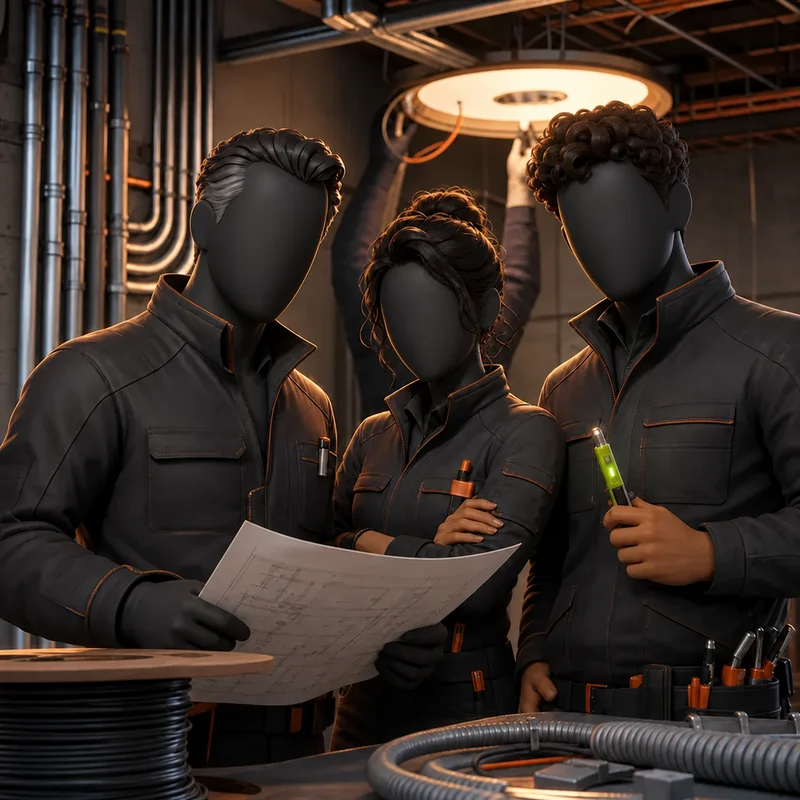
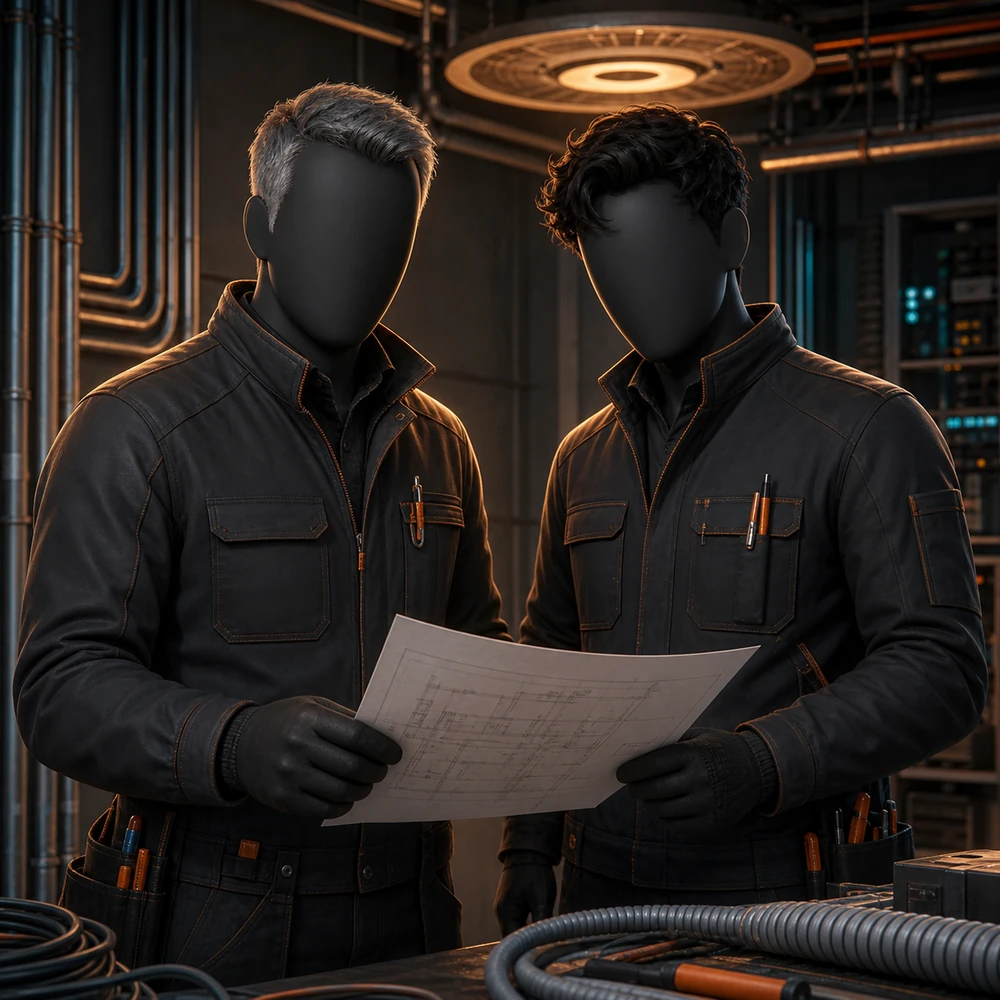
Replace installation team portrait with two male electricians

diff --git a/src/styles.css b/src/styles.css
@@ -453,3 +453,9 @@ html[data-experience='tech'] .electrical-shell{
   .power-system-readout p{font-size:13px}
   .led-lab-controls button strong{font-size:18px}
 }
+
+@media(max-width:720px){
+  .electrical-main .person-card.person-card--group{display:block}
+  .electrical-main .person-card.person-card--group>div.person-portrait{aspect-ratio:1.2;height:auto;min-height:0}
+  .electrical-main .person-card.person-card--group .person-portrait>span{display:flex}
+}

diff --git a/src/pages/PublicPages.tsx b/src/pages/PublicPages.tsx
@@ -65,7 +65,7 @@ export function AboutPage() {
     <section className="org-section section">
       <div className="org-heading"><span className="eyebrow">The complete team</span><h2>Different expertise.<br/><em>One electrical standard.</em></h2><p>The team is ordered by responsibility. The electrical installations team is the company’s backbone, and every card shows how each person contributes to the work.</p></div>
       <div className="team-all-grid">
-        {team.map((person, index) => <article className="person-card" key={person.name}>
+        {team.map((person, index) => <article className={`person-card${person.name === 'Installation team' ? ' person-card--group' : ''}`} key={person.name}>
           <div className="person-portrait"><img src={person.image} alt={`Illustrated role portrait for ${person.name}, ${person.role}`}/><span><b>{String(index + 1).padStart(2, '0')}</b>{person.responsibility}</span></div>
           <div className="person-content"><small>{person.branch}</small><h3>{person.name}</h3><p className="person-role">{person.role}</p><p className="person-area">{person.workArea}</p>{person.credential && <span className="person-credential">{person.credential}</span>}<ul>{person.characteristics.map(item => <li key={item}>{item}</li>)}</ul><div className="person-links">{person.email && <a aria-label={`Email ${person.name}`} href={`mailto:${person.email}`}><Mail/></a>}{person.linkedin && <a aria-label={`${person.name} on LinkedIn`} target="_blank" rel="noreferrer" href={person.linkedin}><ExternalLink/></a>}</div></div>
         </article>)}